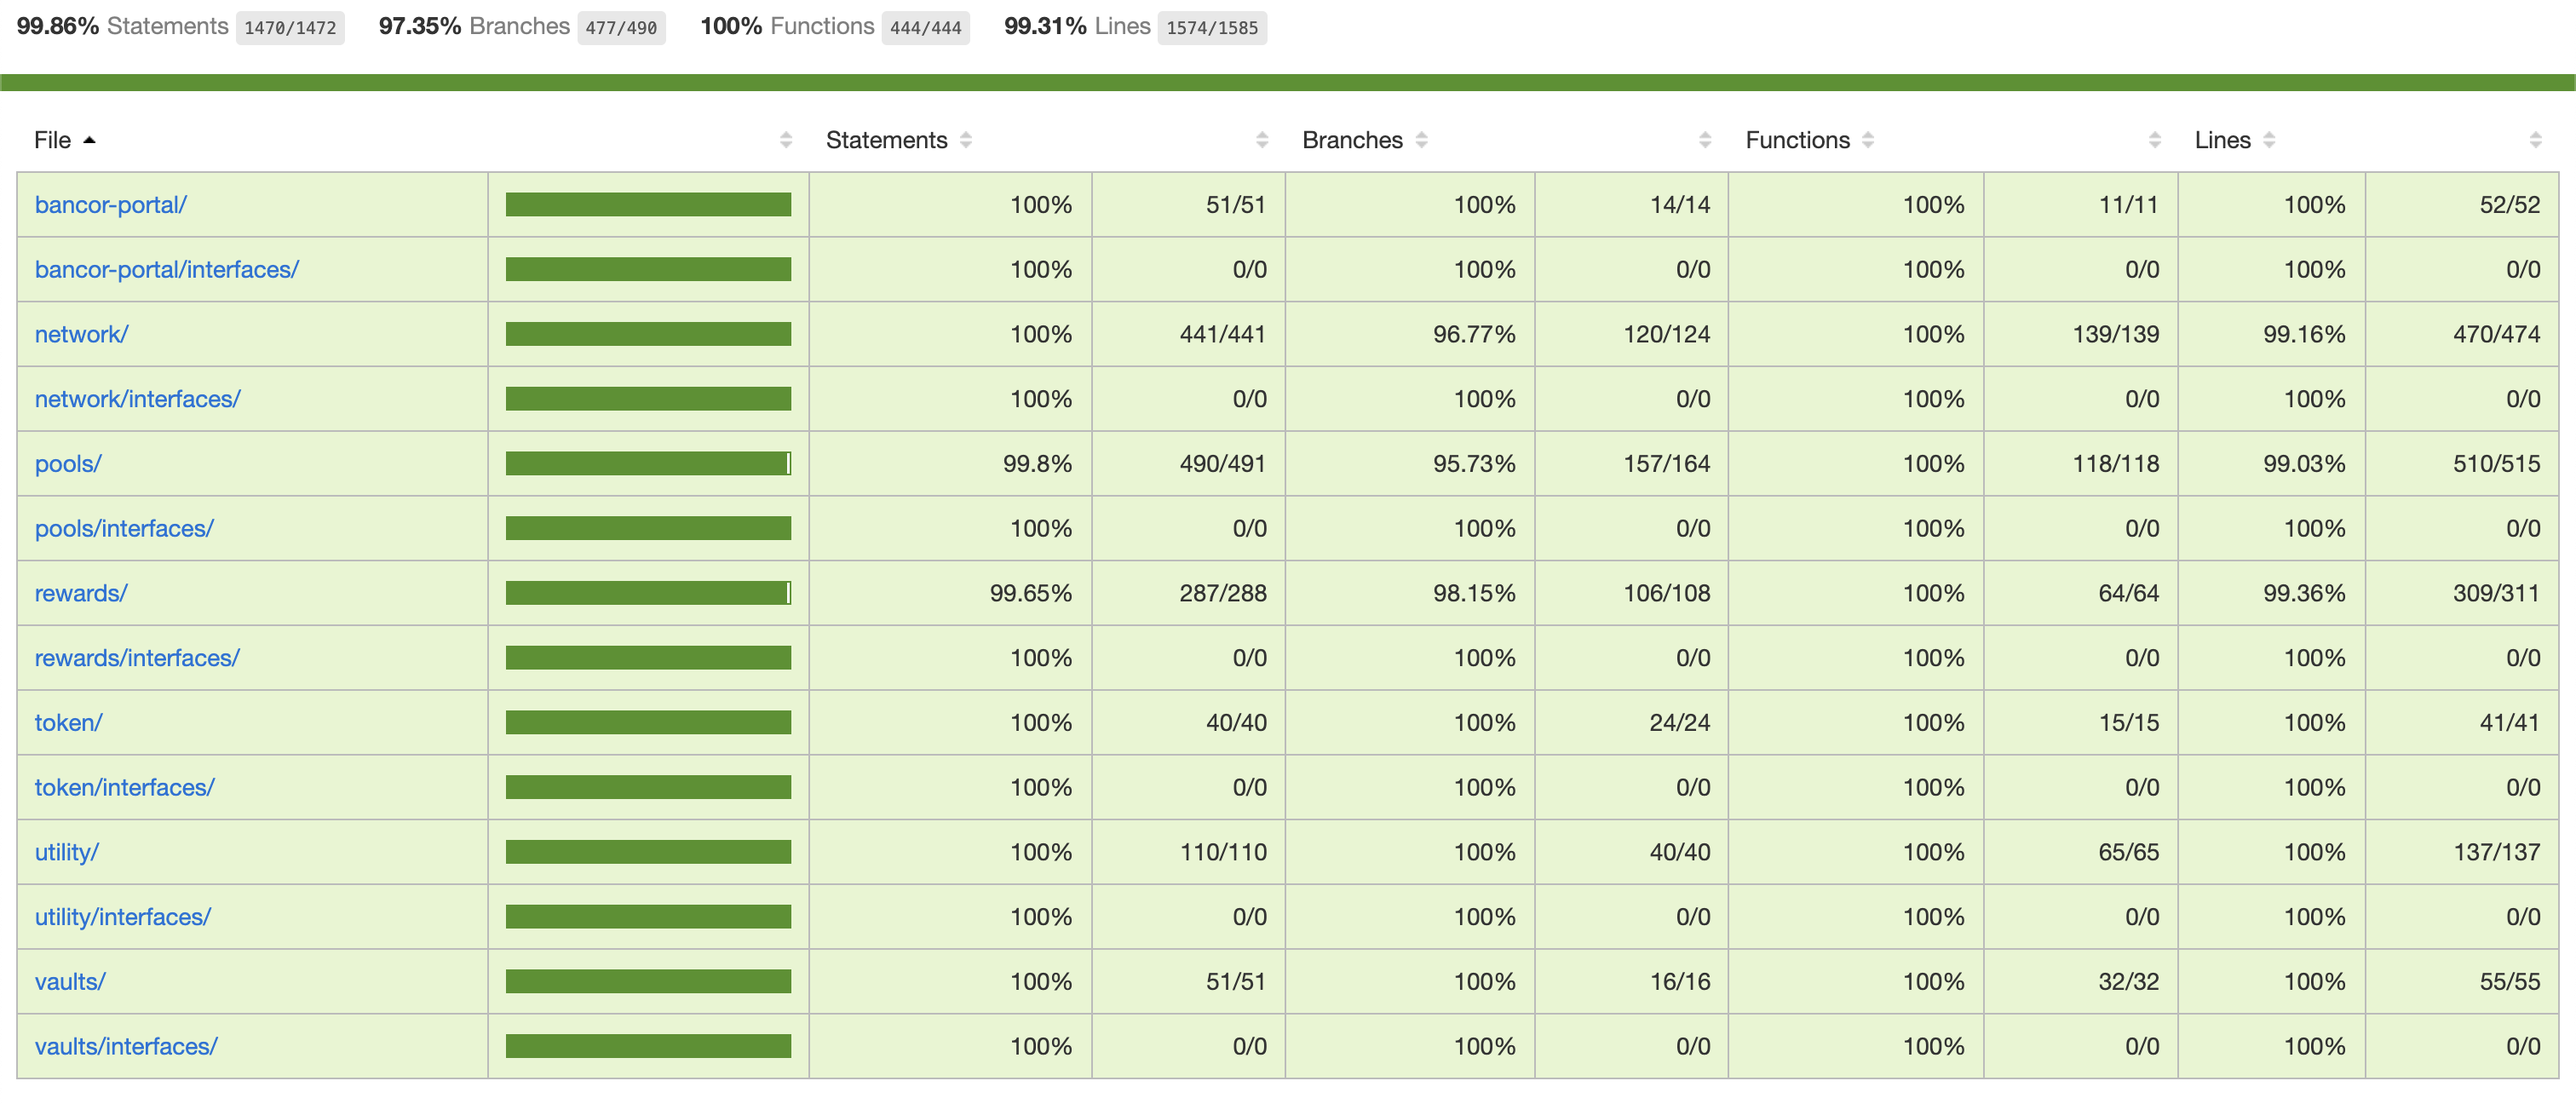
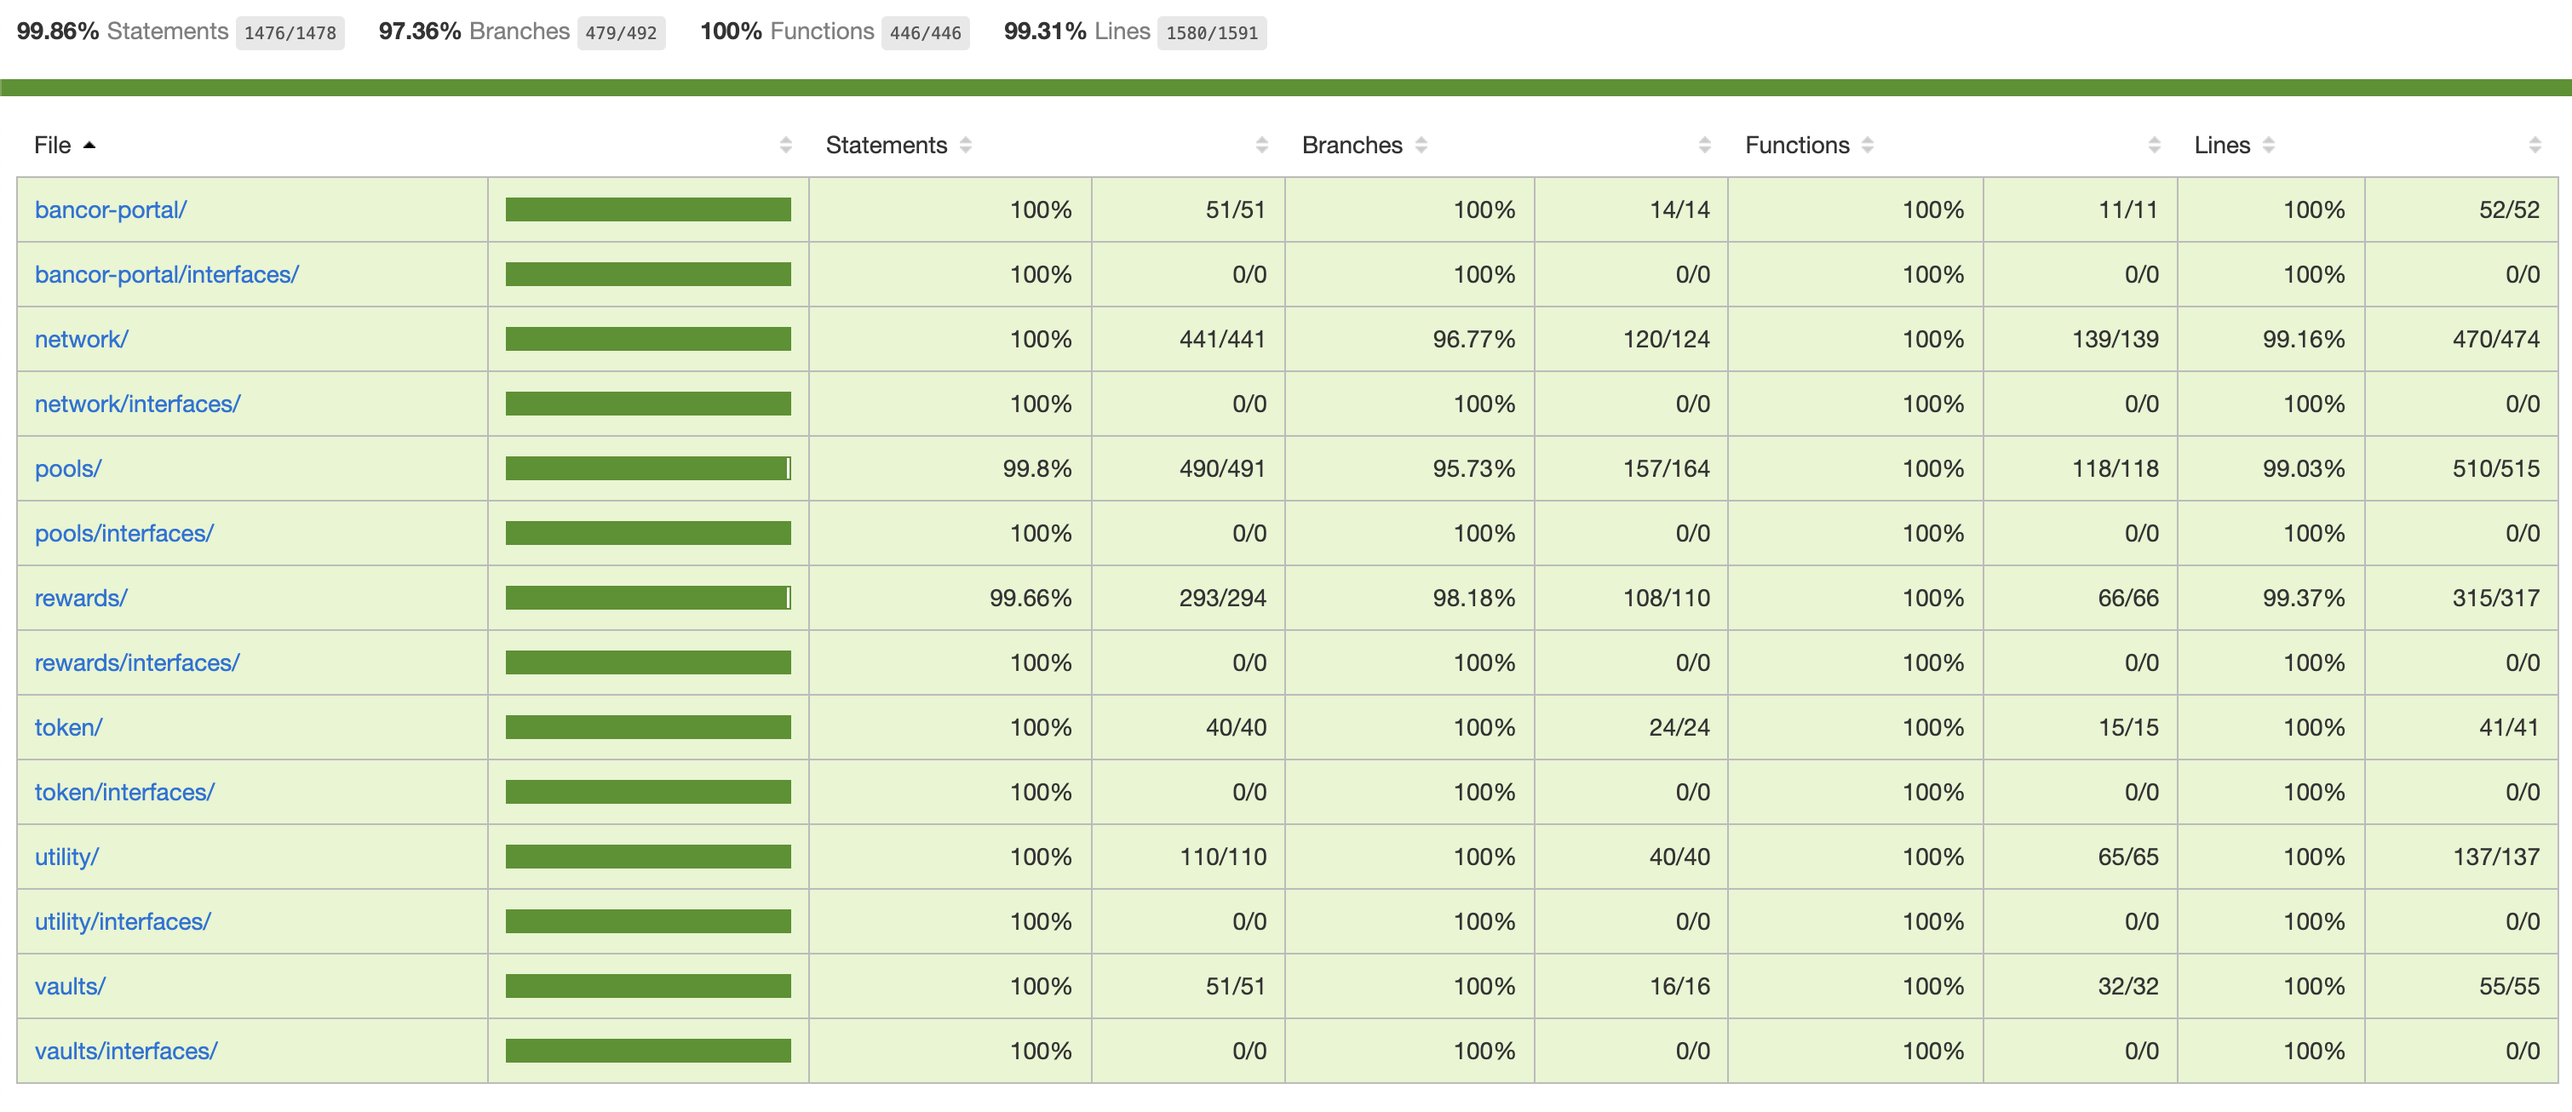
Add coverage report

diff --git a/README.md b/README.md
@@ -79,14 +79,91 @@ This will automatically be skipped on an already deployed and configured deploym
 
 You can find historic tests coverage report in [releases](https://github.com/bancorprotocol/contracts-v3/releases).
 
-#### Latest Report (2022-04-18)
+#### Latest Report (2022-04-24)
 
-- 99.86% Statements 1470/1472
-- 97.35% Branches 477/490
-- 100% Functions 444/444
-- 99.31% Lines 1574/1585
+- 99.86% Statements 1476/1478
+- 97.36% Branches 479/492
+- 100% Functions 446/446
+- 99.31% Lines 1580/1591
+
 
 ![Coverage Report](./docs/images/coverage.png)
+
+```sh
+-------------------------------------------|----------|----------|----------|----------|
+File                                       |  % Stmts | % Branch |  % Funcs |  % Lines |
+-------------------------------------------|----------|----------|----------|----------|
+ bancor-portal/                            |      100 |      100 |      100 |      100 |
+  BancorPortal.sol                         |      100 |      100 |      100 |      100 |
+ bancor-portal/interfaces/                 |      100 |      100 |      100 |      100 |
+  IBancorPortal.sol                        |      100 |      100 |      100 |      100 |
+ network/                                  |      100 |    96.77 |      100 |    99.16 |
+  BancorNetwork.sol                        |      100 |    96.97 |      100 |    99.16 |
+  BancorNetworkInfo.sol                    |      100 |      100 |      100 |      100 |
+  BancorV1Migration.sol                    |      100 |      100 |      100 |      100 |
+  NetworkSettings.sol                      |      100 |      100 |      100 |      100 |
+  PendingWithdrawals.sol                   |      100 |    88.89 |      100 |    96.67 |
+ network/interfaces/                       |      100 |      100 |      100 |      100 |
+  IBancorNetwork.sol                       |      100 |      100 |      100 |      100 |
+  IBancorNetworkInfo.sol                   |      100 |      100 |      100 |      100 |
+  INetworkSettings.sol                     |      100 |      100 |      100 |      100 |
+  IPendingWithdrawals.sol                  |      100 |      100 |      100 |      100 |
+ pools/                                    |     99.8 |    95.73 |      100 |    99.03 |
+  BNTPool.sol                              |      100 |    94.44 |      100 |    98.98 |
+  PoolCollection.sol                       |    99.67 |    95.97 |      100 |    99.05 |
+  PoolCollectionWithdrawal.sol             |      100 |    92.86 |      100 |    98.15 |
+  PoolMigrator.sol                         |      100 |      100 |      100 |      100 |
+  PoolToken.sol                            |      100 |      100 |      100 |      100 |
+  PoolTokenFactory.sol                     |      100 |      100 |      100 |      100 |
+ pools/interfaces/                         |      100 |      100 |      100 |      100 |
+  IBNTPool.sol                             |      100 |      100 |      100 |      100 |
+  IPoolCollection.sol                      |      100 |      100 |      100 |      100 |
+  IPoolMigrator.sol                        |      100 |      100 |      100 |      100 |
+  IPoolToken.sol                           |      100 |      100 |      100 |      100 |
+  IPoolTokenFactory.sol                    |      100 |      100 |      100 |      100 |
+ rewards/                                  |    99.66 |    98.18 |      100 |    99.37 |
+  AutoCompoundingRewards.sol               |     98.8 |    94.44 |      100 |     97.8 |
+  RewardsMath.sol                          |      100 |      100 |      100 |      100 |
+  StandardRewards.sol                      |      100 |      100 |      100 |      100 |
+ rewards/interfaces/                       |      100 |      100 |      100 |      100 |
+  IAutoCompoundingRewards.sol              |      100 |      100 |      100 |      100 |
+  IStandardRewards.sol                     |      100 |      100 |      100 |      100 |
+ token/                                    |      100 |      100 |      100 |      100 |
+  ERC20Burnable.sol                        |      100 |      100 |      100 |      100 |
+  SafeERC20Ex.sol                          |      100 |      100 |      100 |      100 |
+  Token.sol                                |      100 |      100 |      100 |      100 |
+  TokenLibrary.sol                         |      100 |      100 |      100 |      100 |
+ token/interfaces/                         |      100 |      100 |      100 |      100 |
+  IERC20Burnable.sol                       |      100 |      100 |      100 |      100 |
+ utility/                                  |      100 |      100 |      100 |      100 |
+  BlockNumber.sol                          |      100 |      100 |      100 |      100 |
+  Constants.sol                            |      100 |      100 |      100 |      100 |
+  Fraction.sol                             |      100 |      100 |      100 |      100 |
+  FractionLibrary.sol                      |      100 |      100 |      100 |      100 |
+  MathEx.sol                               |      100 |      100 |      100 |      100 |
+  Owned.sol                                |      100 |      100 |      100 |      100 |
+  Time.sol                                 |      100 |      100 |      100 |      100 |
+  TransparentUpgradeableProxyImmutable.sol |      100 |      100 |      100 |      100 |
+  Upgradeable.sol                          |      100 |      100 |      100 |      100 |
+  Utils.sol                                |      100 |      100 |      100 |      100 |
+ utility/interfaces/                       |      100 |      100 |      100 |      100 |
+  IOwned.sol                               |      100 |      100 |      100 |      100 |
+  IUpgradeable.sol                         |      100 |      100 |      100 |      100 |
+  IVersioned.sol                           |      100 |      100 |      100 |      100 |
+ vaults/                                   |      100 |      100 |      100 |      100 |
+  ExternalProtectionVault.sol              |      100 |      100 |      100 |      100 |
+  ExternalRewardsVault.sol                 |      100 |      100 |      100 |      100 |
+  MasterVault.sol                          |      100 |      100 |      100 |      100 |
+  Vault.sol                                |      100 |      100 |      100 |      100 |
+ vaults/interfaces/                        |      100 |      100 |      100 |      100 |
+  IExternalProtectionVault.sol             |      100 |      100 |      100 |      100 |
+  IExternalRewardsVault.sol                |      100 |      100 |      100 |      100 |
+  IMasterVault.sol                         |      100 |      100 |      100 |      100 |
+  IVault.sol                               |      100 |      100 |      100 |      100 |
+-------------------------------------------|----------|----------|----------|----------|
+All files                                  |    99.86 |    97.36 |      100 |    99.31 |
+-------------------------------------------|----------|----------|----------|----------|
+```
 
 #### Instructions
 
